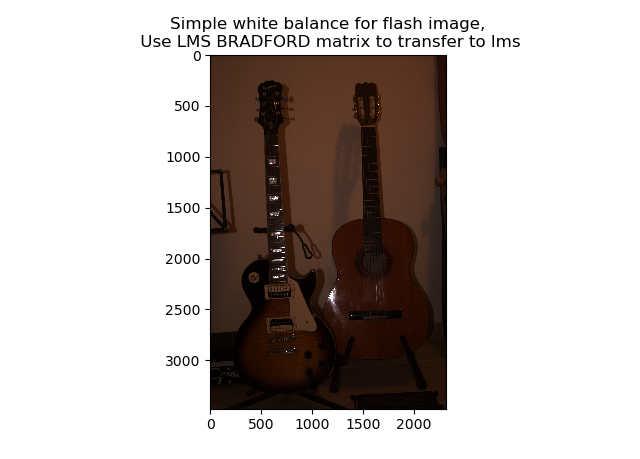
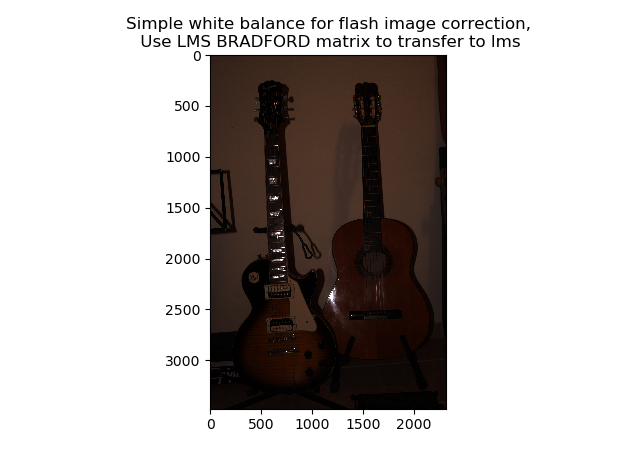
Update result

diff --git a/ex1/white_balance.py b/ex1/white_balance.py
@@ -53,13 +53,17 @@ def show_img(img, title=""):
     plt.show()
 
 
-def simple_wb(flash_img, no_flash_img, flash_chromatic):
-    delta = flash_img - no_flash_img
+def simple_wb(flash_img, no_flash_img, flash_chromatic, lms_mat):
+    lms_flash_img = rgb2lms(flash_img, lms_mat)
+    lms_no_flash_img = rgb2lms(no_flash_img, lms_mat)
+    delta = lms_flash_img - lms_no_flash_img
+    # flash_chromatic_day = np.array([0.9504, 1.0, 1.0889])[np.newaxis][np.newaxis]
+    # balanced_delta = lms_no_flash_img @ (np.eye(3) * (1 /flash_chromatic_day))
     balanced_delta = delta @ (np.eye(3) * (1 /flash_chromatic))
-    return balanced_delta + no_flash_img
+    return lms2rgb(balanced_delta, lms_mat)
 
 
-def wb(flash_img, no_flash_img, flash_chromatic, lms_mat=None):
+def wb(flash_img, no_flash_img, flash_chromatic, lms_mat):
     # Article addition: divide by c (mean of no_flash_img / delta) instead of
     # directly by flash_chromatic
     if np.any(lms_mat):
@@ -70,9 +74,9 @@ def wb(flash_img, no_flash_img, flash_chromatic, lms_mat=None):
     normed = np.divide(no_flash_img, balanced_delta, where=delta > 0)
 
     # compute extreme values to ignore
-    t1 = np.percentile(no_flash_img, 2)
+    t1 = np.percentile(no_flash_img, 2, axis=(0, 1))
     not_ignore1 = no_flash_img > t1
-    t2 = np.percentile(delta, 2)
+    t2 = np.percentile(delta, 2, axis=(0, 1))
     not_ignore2 = delta > t2
     not_ignore = (not_ignore1 & not_ignore2)
 
@@ -94,24 +98,14 @@ def hist(img, title):
     plt.title(title)
     plt.show()
 
-# def min_threshold(rgb_img, percentage: float):
-#     reshaped = rgb_img.transpose(2, 0, 1).reshape(3, -1)
-#     num_of_wanted_pics = int(reshaped.shape[1] * percentage)
-#     r = np.max(np.partition(reshaped[0], num_of_wanted_pics)[:num_of_wanted_pics])
-#     g = np.max(np.partition(reshaped[1], num_of_wanted_pics)[:num_of_wanted_pics])
-#     b = np.max(np.partition(reshaped[2], num_of_wanted_pics)[:num_of_wanted_pics])
-#     return np.array([r, g, b])
-
 
 def find_chromaticity_coordinates(img_p, left, right, top, bot, lms_mat):
     img = crop_image(img_p, left, right, top, bot)
-    # chromaticity_coordinates = np.sum(img.transpose(2, 0, 1).reshape(3, -1), axis=1, dtype=np.float)
     lms_img = rgb2lms(img, lms_mat)
-    avg_lms = np.mean(lms_img.transpose(2, 0, 1).reshape(3, -1), axis=1)
+    avg_lms = np.mean(lms_img, axis=(0, 1))
     chromaticity = avg_lms / np.sum(avg_lms)
     return lms2rgb(chromaticity[np.newaxis][np.newaxis], lms_mat)[0, 0]
-    # return np.max(img.transpose(2, 0, 1).reshape(3, -1), axis=1)
-    # return chromaticity_coordinates/np.sum(chromaticity_coordinates, dtype=np.float)
+
 
 def crop_image(img, left, right, top, bot):
     grey_card = img[top:bot, left:right]
@@ -125,12 +119,13 @@ def gamma_corrections(img, gamma):
 
 def main(noflash_path, flash_path, gray_card_path, lms_mat, wb_func=wb):
     no_flash_img = read_tiff(noflash_path)
+    # show_img(no_flash_img / np.max(no_flash_img, axis=(0,1)))
     flash_img = read_tiff(flash_path)
     gray_card_img = read_tiff(gray_card_path)
     points_of_card = 686, 1842, 971, 2324  # for given images
     flash_cromatic = find_chromaticity_coordinates(gray_card_img, *points_of_card, lms_mat)
 
-    balanced = wb_func(flash_img, no_flash_img, flash_cromatic)
+    balanced = wb_func(flash_img, no_flash_img, flash_cromatic, lms_mat)
     return balanced
 
 
@@ -150,13 +145,14 @@ if __name__ == '__main__':
     #                     lms_mat=np.eye(3, dtype=np.float))
     # balanced_img = main(noflash_path, flash_path, gray_card_path, wb_func=wb,
     #                     lms_mat=None)
-    balanced_img_yoni = main(noflash_path, flash_path, gray_card_path, XYZ2LMS_VON_KRIES, wb_func=wb)
-    hist(balanced_img_yoni, "avichai_ wb")
-    # show_img(balanced_img, "avichai_ wb")
+    balanced_img = main(noflash_path, flash_path, gray_card_path, XYZ2LMS_VON_KRIES, wb_func=simple_wb)
+    show_img(gamma_corrections(balanced_img, 2.4), "Simple white balance for flash image with gama correction"
+                                                   "correction,\n Use LMS VON KRIES matrix to transfer to "
+                                                   "lms")
     # flash_img = read_tiff(flash_path)
     # show_img(flash_img, "flash image")
     # no_flash_img = read_tiff(noflash_path)
-    # show_img(no_flash_img, "no_flash image")
+    # show_img(no_flash_img, "Original no flash image")
 
 
     # gamma_corrected = gamma_corrections(balanced_img, gamma=gamma)
